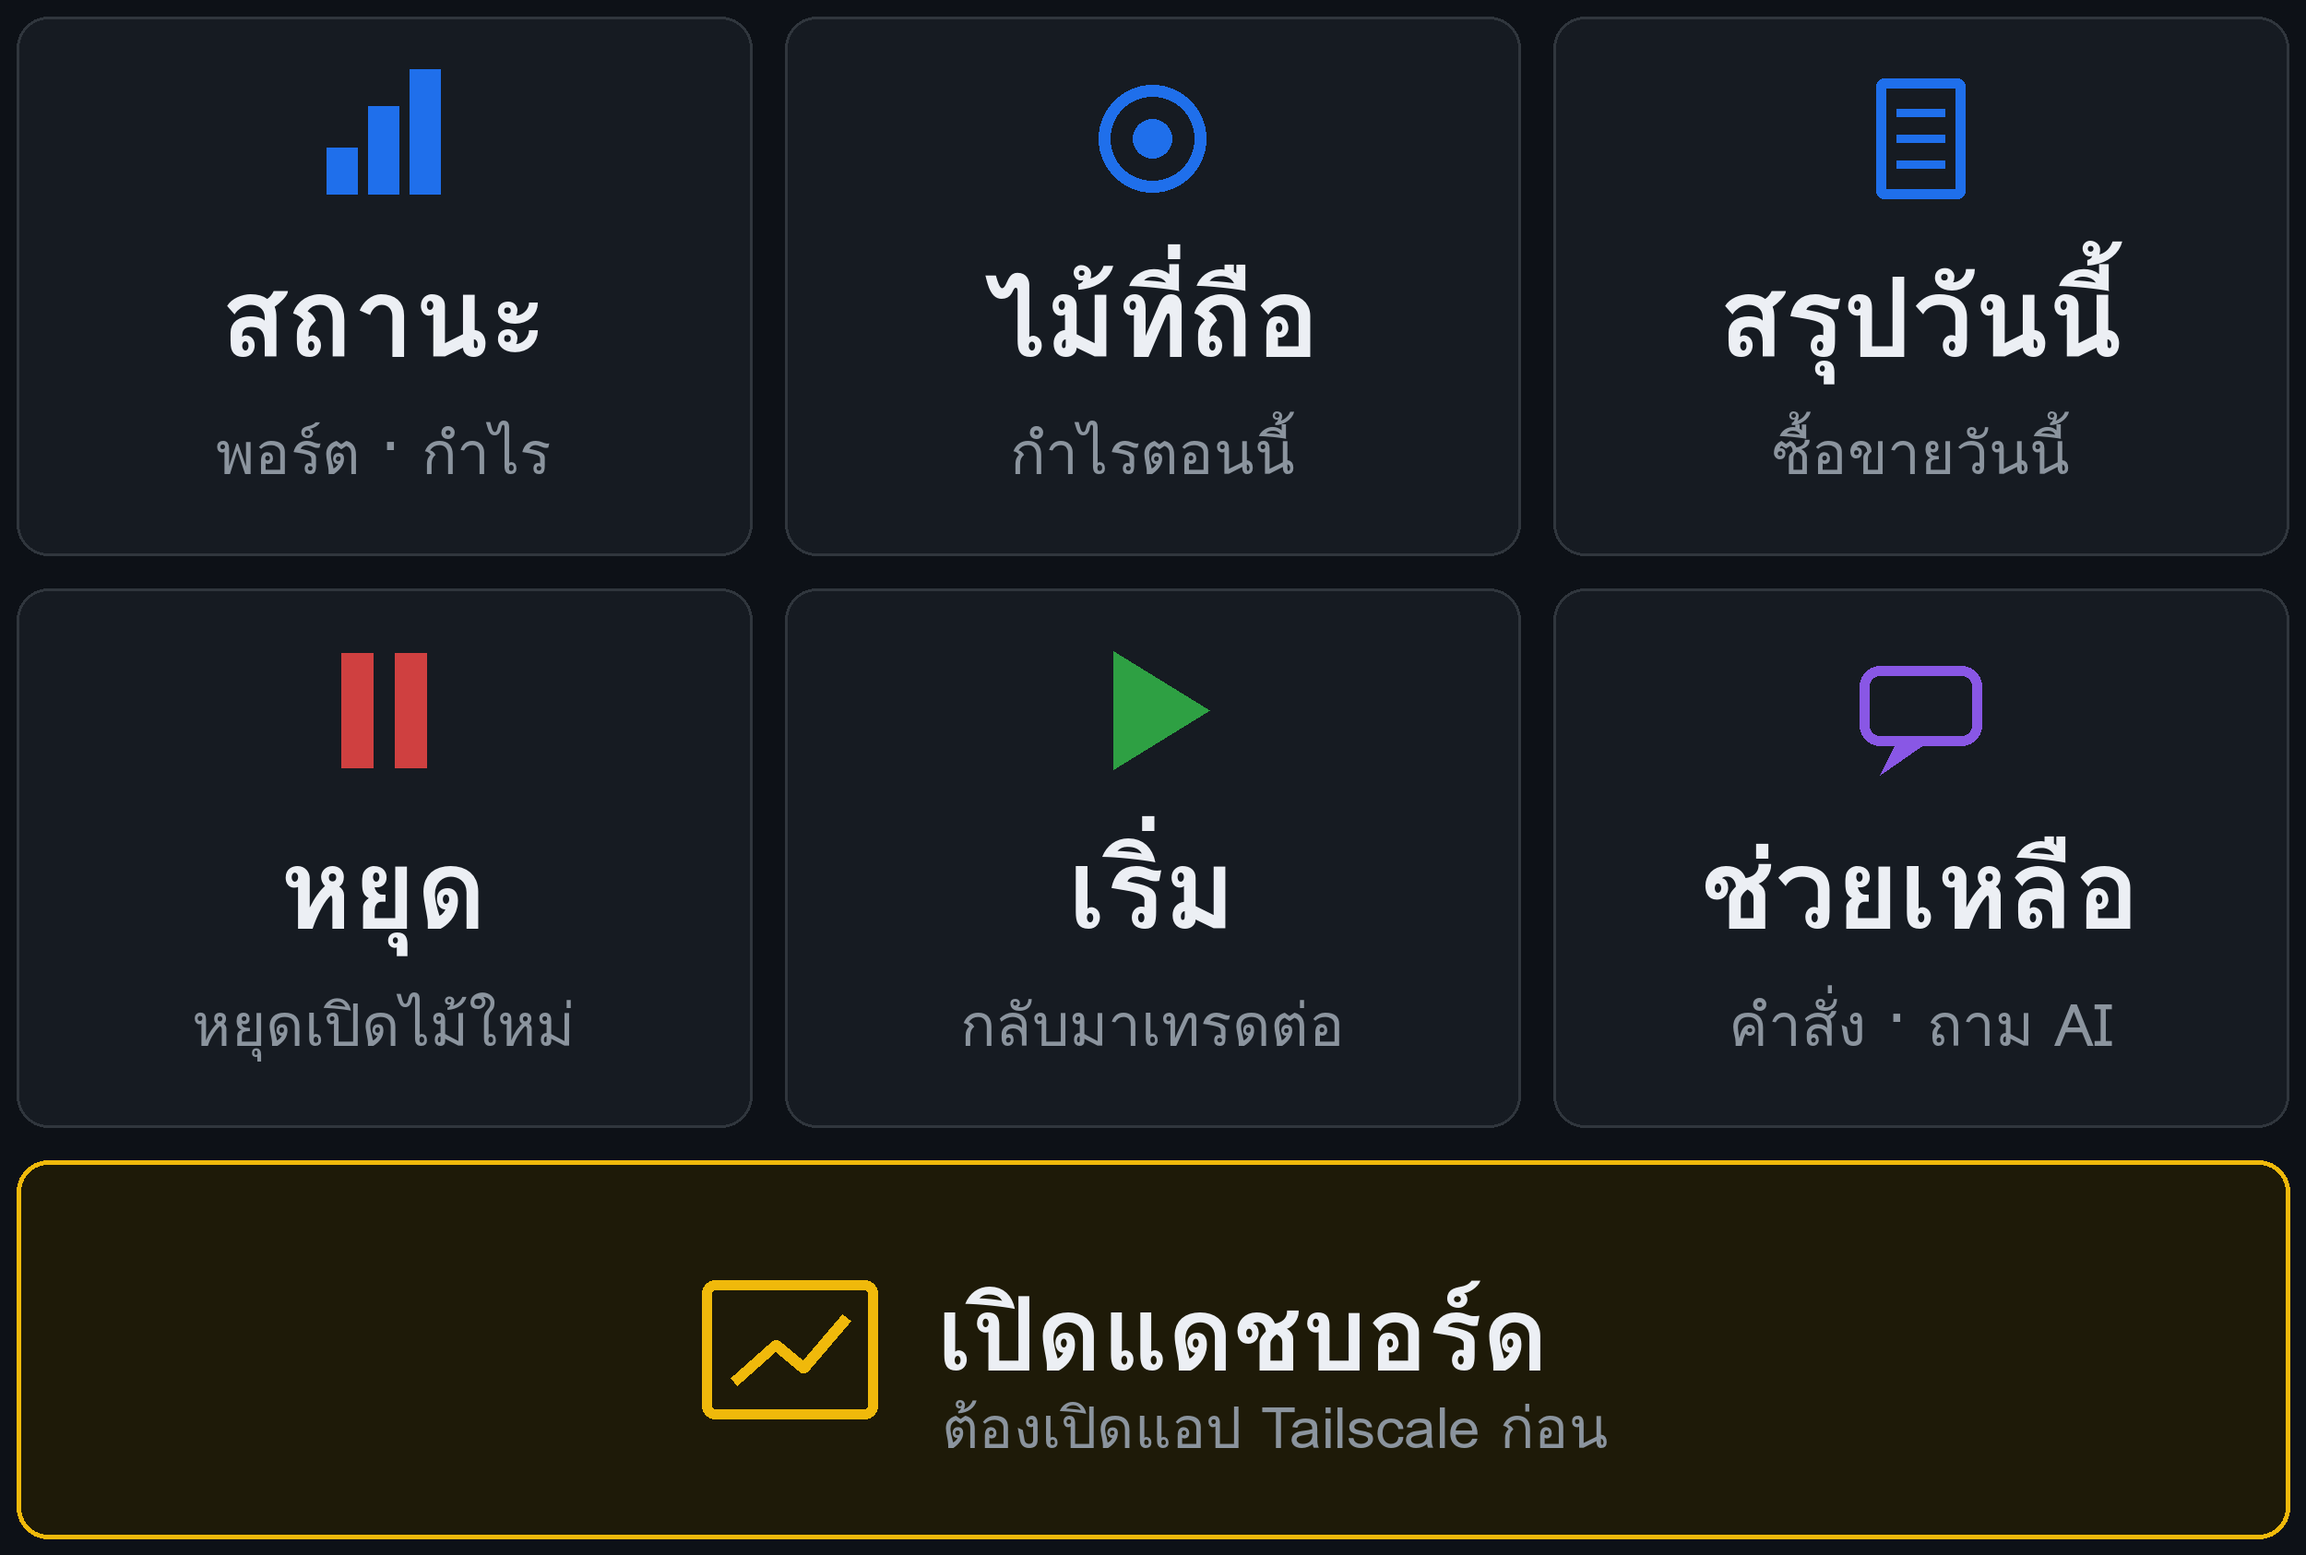
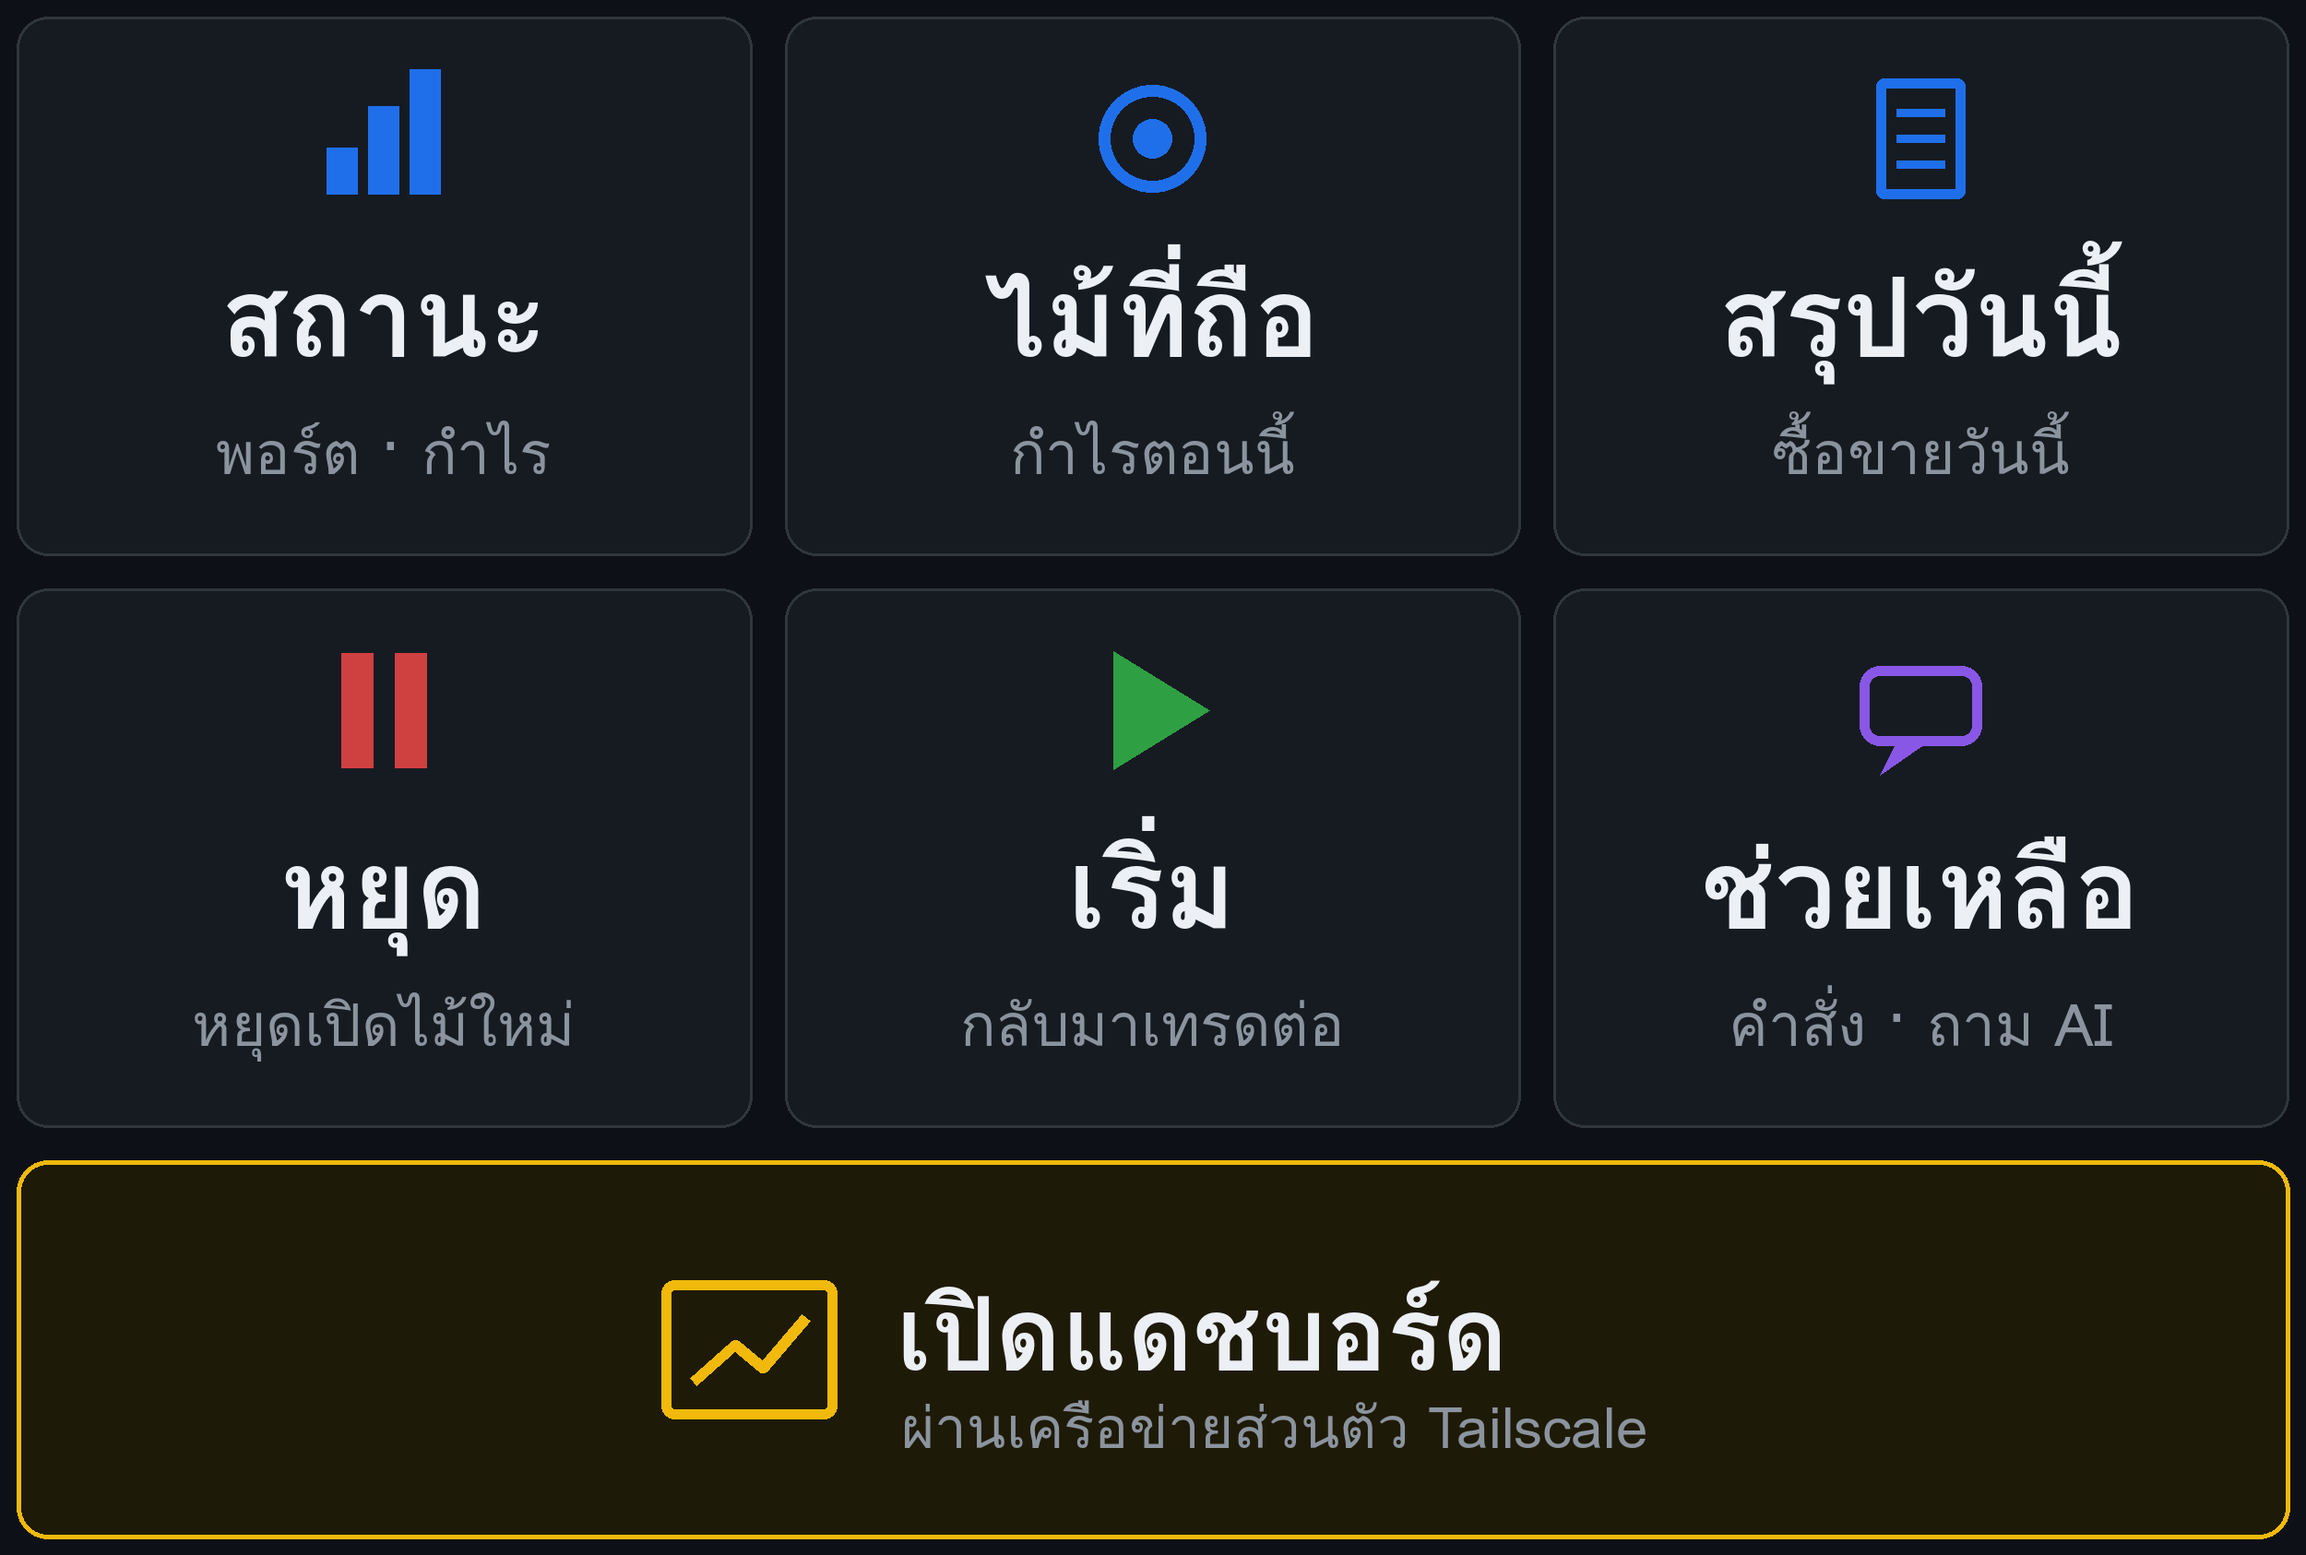
ปุ่มแดชบอร์ดใช้ชื่อ MagicDNS (*.ts.net) ให้ iPhone เปิด Tailscale อัตโนมัติด้วย VPN On Demand
Claude-Session: https://claude.ai/code/session_0195Tpf99jeBs5g7BRs7fpJN

Changed region(s): [[0.2808, 0.8019, 0.7176, 0.9561]]

diff --git a/richmenu.py b/richmenu.py
@@ -32,15 +32,22 @@ def call(method, url, token, body=None, ctype="application/json"):
         sys.exit("❌ LINE ตอบ HTTP %s: %s" % (e.code, e.read().decode(errors="replace")[:300]))
 
 
-def dashboard_url():
+def dashboard_url(strict=True):
+    """ลิงก์แดชบอร์ด: DASHBOARD_URL > ชื่อ MagicDNS (*.ts.net ให้ iPhone เปิด Tailscale อัตโนมัติได้) > IP Tailscale"""
     url = os.environ.get("DASHBOARD_URL", "").strip()
     if url:
         return url
     try:
-        ip = subprocess.run(["tailscale", "ip", "-4"], capture_output=True, text=True, timeout=10).stdout.split()[0]
-        return "http://%s:8080" % ip
+        st = json.loads(subprocess.run(["tailscale", "status", "--json"], capture_output=True, text=True,
+                                       timeout=10).stdout)
+        name = (st.get("Self", {}).get("DNSName") or "").rstrip(".")
+        if name:
+            return "http://%s:8080" % name
+        return "http://%s:8080" % st["Self"]["TailscaleIPs"][0]
     except Exception:
-        sys.exit("❌ หา IP Tailscale ไม่เจอ: ตั้ง DASHBOARD_URL ใน /root/bot.env แล้วรันใหม่")
+        if strict:
+            sys.exit("❌ หาที่อยู่ Tailscale ไม่เจอ: ตั้ง DASHBOARD_URL ใน /root/bot.env แล้วรันใหม่")
+        return None
 
 
 def main():

diff --git a/line_bot.py b/line_bot.py
@@ -119,15 +119,11 @@ class LineBot:
         return self.ask_ai(text)
 
     def dashboard_text(self):
-        url = os.environ.get("DASHBOARD_URL", "").strip()
+        from richmenu import dashboard_url
+        url = dashboard_url(strict=False)
         if not url:
-            try:
-                import subprocess
-                ip = subprocess.run(["tailscale", "ip", "-4"], capture_output=True, text=True, timeout=10).stdout.split()[0]
-                url = "http://%s:8080" % ip
-            except Exception:
-                return "หาลิงก์แดชบอร์ดไม่เจอ: ตั้ง DASHBOARD_URL ใน /root/bot.env"
-        return "📊 แดชบอร์ด\n%s\n\nเปิดแอป Tailscale ในมือถือก่อน แล้วค่อยกดลิงก์" % url
+            return "หาลิงก์แดชบอร์ดไม่เจอ: ตั้ง DASHBOARD_URL ใน /root/bot.env"
+        return "📊 แดชบอร์ด\n%s\n\n(ตั้ง VPN On Demand ในแอป Tailscale ไว้ จะเปิดได้ทันทีไม่ต้องกดเปิด Tailscale)" % url
 
     def status_text(self):
         co = self.co
